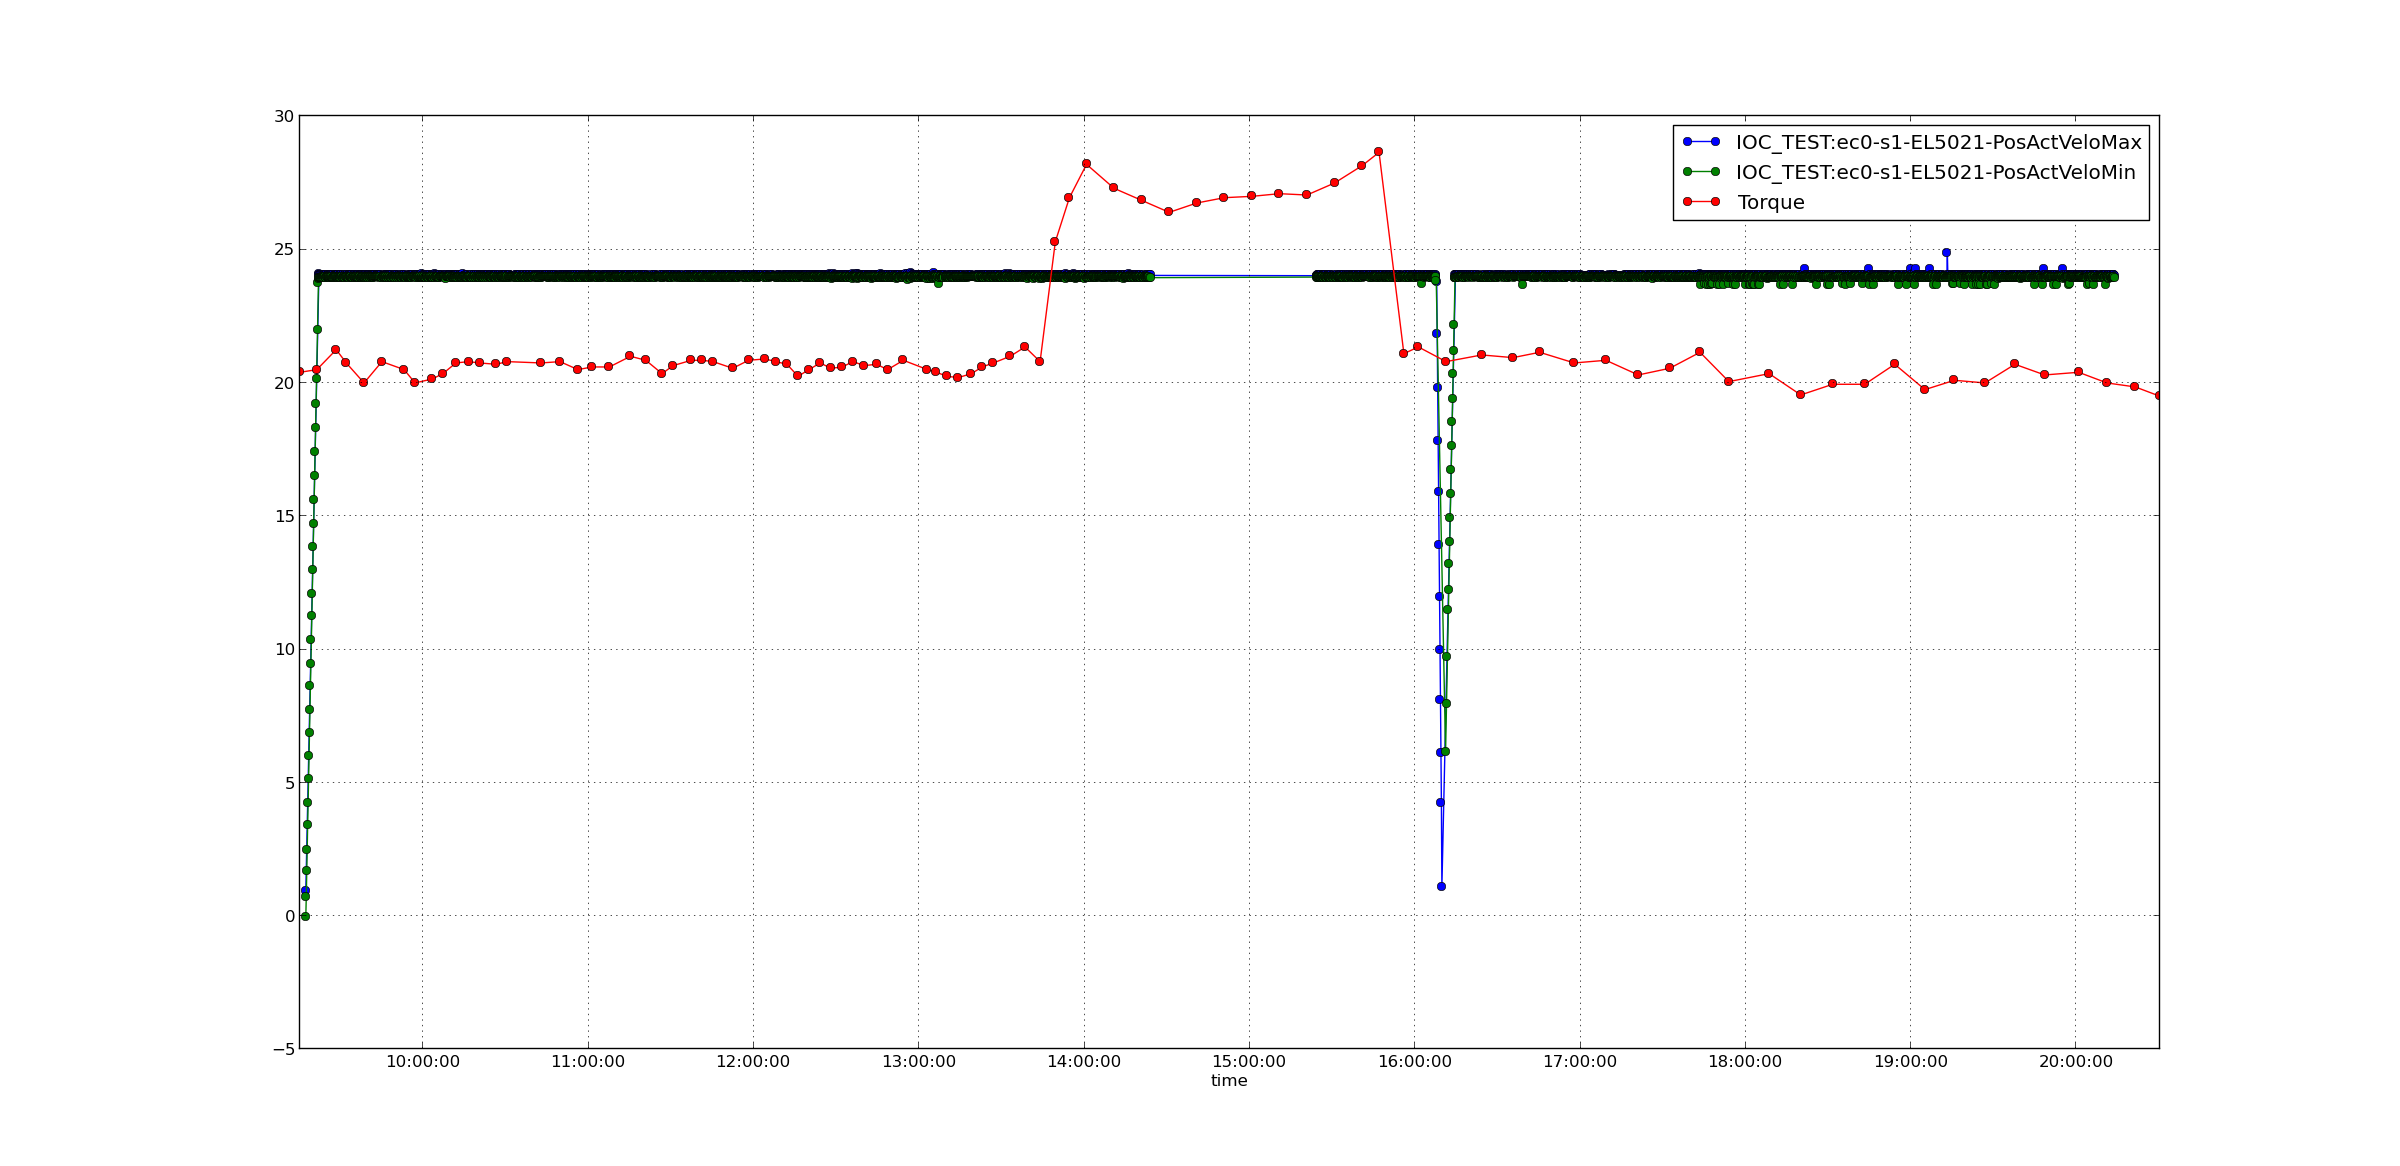
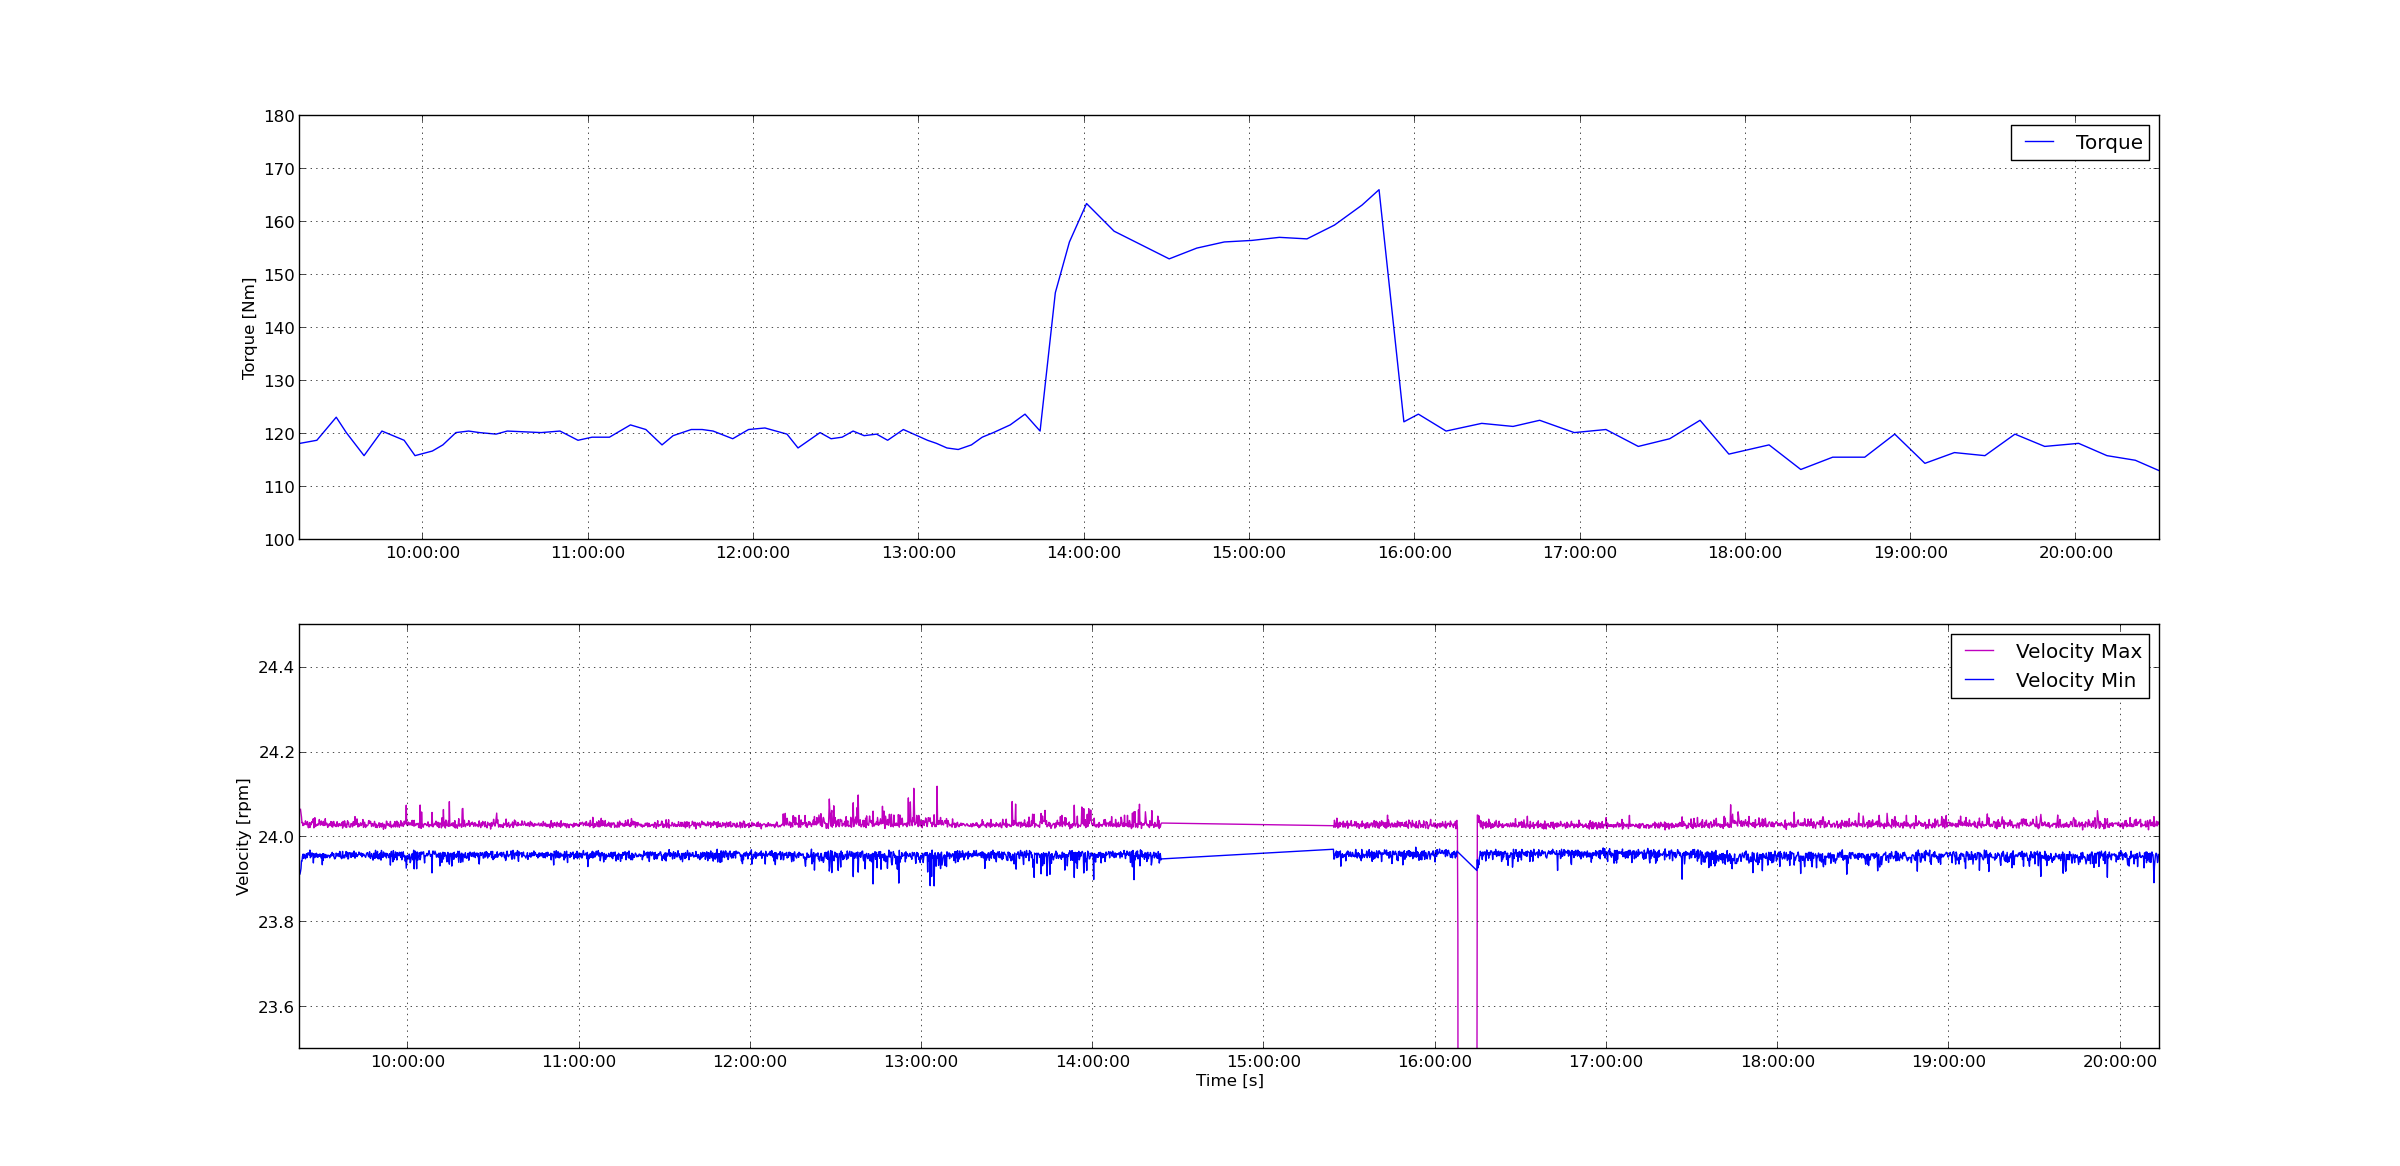
torque velo

diff --git a/rotor_position/calcs/plot12HTorqueVelo.py b/rotor_position/calcs/plot12HTorqueVelo.py
@@ -1,0 +1,86 @@
+#!/usr/bin/python
+# coding: utf-8
+import sys
+import numpy as np
+import matplotlib.pyplot as plt
+from datetime import datetime
+from caPVArrayLib import caPVArray
+from caMonitorArrayParserLib import caMonitorArrayParser 
+ 
+def printOutHelp():
+  print ("python slask.py")
+  print ("Custom plot for target rotor displacement sensors: cat *.log | slask.py")
+
+def main():
+  # Check args
+  if len(sys.argv)>1:    
+    pos1=sys.argv[1].find('-h')
+    if(pos1>=0):
+      printOutHelp()
+      sys.exit()
+
+  scale=1.0  # default
+
+  if len(sys.argv)==2:      
+     scale=float(sys.argv[1])
+
+  pvY1name = "Torque"
+  pvY2name = "Max"
+  pvY3name = "Min"
+  
+  dataFile=sys.stdin
+
+  parser = caMonitorArrayParser()
+  pvY1   = caPVArray(pvY1name)
+  pvY2   = caPVArray(pvY2name)
+  pvY3   = caPVArray(pvY2name)
+  
+  for line in dataFile:
+    
+    if not parser.lineValid(line):      
+      continue
+
+    if line.find(pvY1name)==-1 and line.find(pvY2name)==-1 and line.find(pvY3name)==-1:
+      continue
+
+    pvName, timeVal, data = parser.getValues(line)
+    
+    if pvName.find(pvY1name)>=0:
+       pvY1.setValues(timeVal,data)
+
+    if pvName.find(pvY2name)>=0:
+       pvY2.setValues(timeVal,data)
+
+    if pvName.find(pvY3name)>=0:
+       pvY3.setValues(timeVal,data)
+
+  y1Time,y1Data = pvY1.getData()
+  y2Time,y2Data = pvY2.getData()
+  y3Time,y3Data = pvY3.getData()
+ 
+  legstr=[]
+  legstr.append("Torque")
+  fig2=plt.figure(2)
+  ax1=fig2.add_subplot(2, 1, 1)
+  ax1.plot(y1Time,y1Data, 'b')
+  ax1.set_ylabel("Torque [Nm]")
+  ax1.legend(legstr)
+  ax1.set_ylim(100,180)
+  ax1.grid()
+  
+  legstr=[]
+  legstr.append("Velocity Max")
+  legstr.append("Velocity Min")
+  ax2=fig2.add_subplot(2, 1, 2)
+  ax2.plot(y2Time,y2Data, 'm')
+  ax2.plot(y3Time,y3Data, 'b')
+  ax2.set_ylabel("Velocity [rpm]")
+  ax2.legend(legstr)
+  ax2.set_ylim(23.5,24.5)
+  ax2.grid()
+
+  plt.xlabel("Time [s]")
+  plt.show()
+
+if __name__ == "__main__":
+  main()
